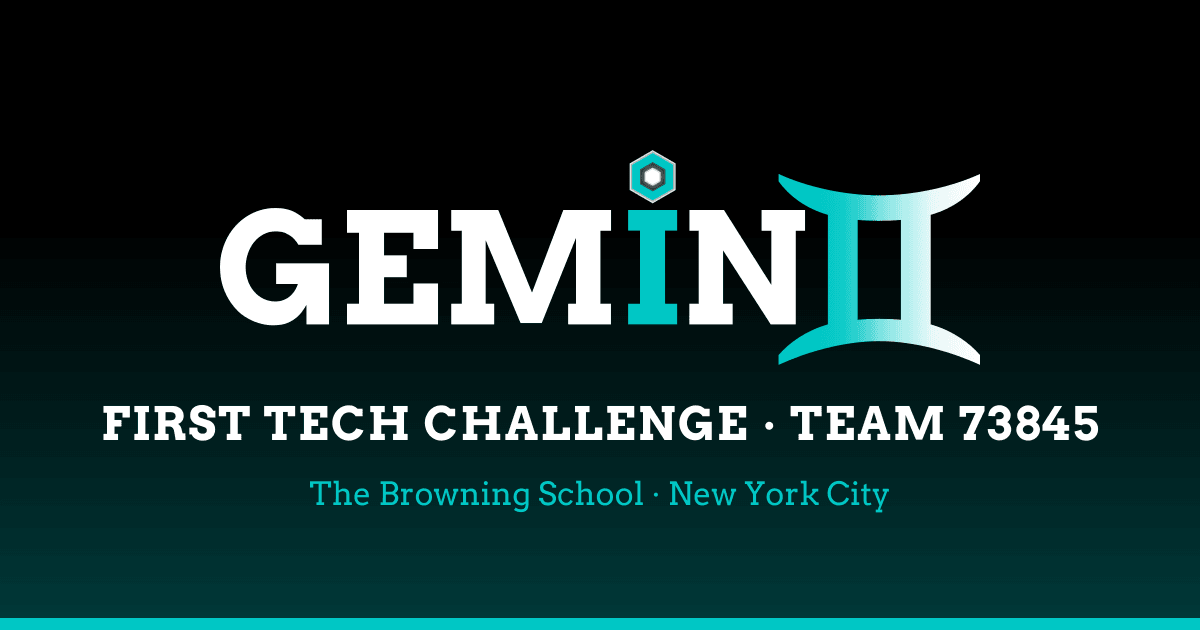
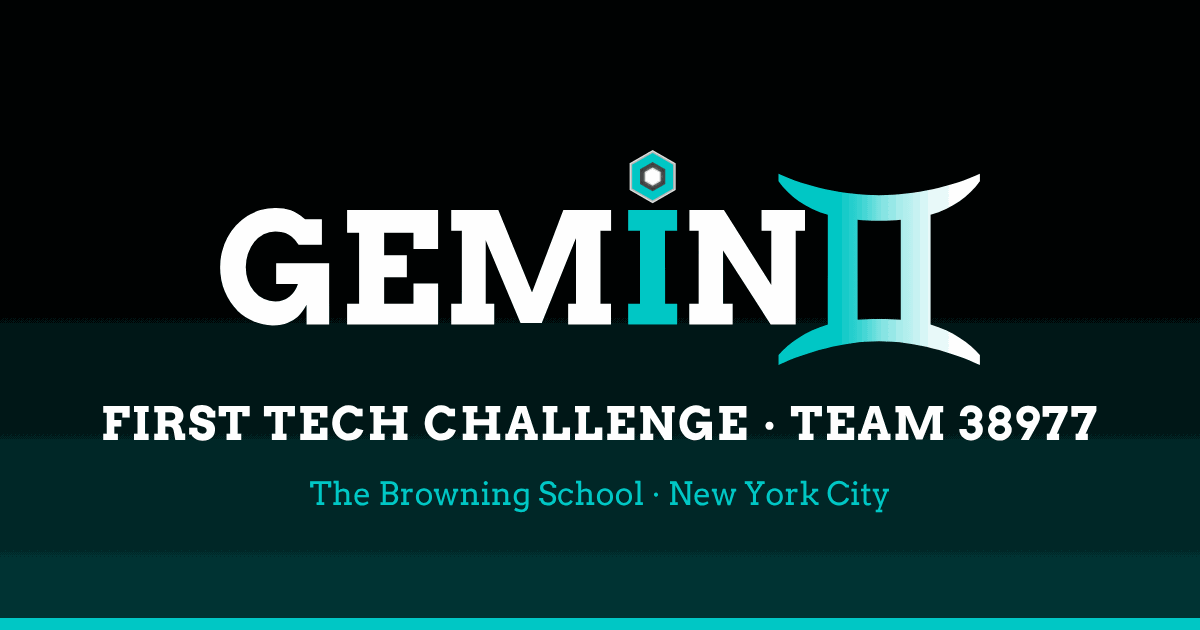
Update FTC team number to 38977
Replace 73845 with 38977 in titles, meta descriptions, JSON-LD, the web
manifest, the About FAQ and docs/SEO.md, and regenerate the 1200x630
share image (public/og-image.png) with the new number.

Claude-Session: https://claude.ai/code/session_01QQWTpKB76EYr6HHkmSA1GB

diff --git a/docs/SEO.md b/docs/SEO.md
@@ -50,7 +50,7 @@ No paid keyword tool (Ahrefs, Semrush) was available, so search volume and diffi
 
 "Geminii" is one letter away from **Gemini Robotics**, Google DeepMind's robotics AI. That model has a Wikipedia page, DeepMind product pages and wide press coverage, so a search for "geminii robotics" is likely to be autocorrected or answered with Google's product. A search for "Geminii Robotics" in October 2026 returned only DeepMind and the GitHub repo. The site itself was not indexed yet.
 
-Strategy: always pair the name with qualifiers Google can't confuse, such as **FTC**, **73845**, **Browning** and **NYC**. Answer the mix-up directly on the page; the About page FAQ now has "Is Geminii Robotics related to Google's Gemini Robotics?". Titles and descriptions already follow this pattern.
+Strategy: always pair the name with qualifiers Google can't confuse, such as **FTC**, **38977**, **Browning** and **NYC**. Answer the mix-up directly on the page; the About page FAQ now has "Is Geminii Robotics related to Google's Gemini Robotics?". Titles and descriptions already follow this pattern.
 
 ### Competitors (who takes the clicks we want)
 
@@ -61,20 +61,20 @@ Strategy: always pair the name with qualifiers Google can't confuse, such as **F
 | Ex Nihilo, FTC 30413 ([ultro.browning.edu/ex-nihilo](https://ultro.browning.edu/ex-nihilo/)) | Ultro's community team, also competing for "Browning robotics" searches. |
 | Browning news posts ([browning.edu/news](https://browning.edu/news/robotics-hosts-citywide-scrimmage)) | They rank for Browning robotics queries. |
 | Other NYC FTC teams (Stuy Fission/Fusion, Dalton's Atomic Theory, Brooklyn Tech, St. Edmund Prep Nerd Herd) | They compete for "NYC FTC team" queries. Most have weak or no team sites, so the generic local terms are winnable. |
-| Aggregators: [FTC Events](https://ftc-events.firstinspires.org), [FTCScout](https://ftcscout.org), [NYC FIRST](https://nycfirst.org/ftc) | They rank for every team number. Team 73845 isn't listed on FTC Events or FTCScout yet, which is a key gap. |
+| Aggregators: [FTC Events](https://ftc-events.firstinspires.org), [FTCScout](https://ftcscout.org), [NYC FIRST](https://nycfirst.org/ftc) | They rank for every team number. Team 38977 isn't listed on FTC Events or FTCScout yet, which is a key gap. |
 
 ### Main keywords
 
 | Keyword | Intent | Est. volume | Est. difficulty | Notes |
 | --- | --- | --- | --- | --- |
 | geminii robotics | Navigational | Very low (new team) | Hard because of the Gemini collision | Win it with exact spelling plus qualifiers |
-| ftc 73845 / ftc team 73845 | Navigational | Very low | Easy, once FTC Events/FTCScout list the team | Our page should sit next to the FIRST listings |
+| ftc 38977 / ftc team 38977 | Navigational | Very low | Easy, once FTC Events/FTCScout list the team | Our page should sit next to the FIRST listings |
 | browning school robotics | Navigational/informational | Low | Medium (Ultro holds #1) | Aim for #2, with a link from Ultro |
 | nyc ftc robotics team | Informational/local | Low–medium | Medium | Local pages from FIRST and schools rank |
 
 ### Long-tail variations
 
-- geminii ftc, geminii 73845, geminii robotics nyc, geminii browning
+- geminii ftc, geminii 38977, geminii robotics nyc, geminii browning
 - browning school ftc team, browning robotics team new york
 - ultro robotics affiliate team, ultro geminii
 - rookie ftc team nyc 2026, new ftc team manhattan
@@ -87,7 +87,7 @@ Strategy: always pair the name with qualifiers Google can't confuse, such as **F
 
 | Page | Primary keyword | Secondary keywords | Search intent |
 | --- | --- | --- | --- |
-| `/` | Geminii Robotics FTC 73845 | FTC team NYC, Browning School robotics team | Navigational: "who are they" |
+| `/` | Geminii Robotics FTC 38977 | FTC team NYC, Browning School robotics team | Navigational: "who are they" |
 | `/about/` | about Geminii Robotics | founded by twins, Ultro Robotics affiliate, why "Geminii", Gemini vs Geminii, FAQ queries | Informational |
 | `/outreach/` | Geminii Robotics outreach | robotics outreach NYC, Carter Burden Network robotics, Intro to Engineering mentoring | Informational |
 | `/giving/` | donate to Geminii Robotics | sponsor an FTC team NYC, support student robotics, Browning gift "For Robotics" | Transactional |
@@ -132,7 +132,7 @@ These also ship as `FAQPage` structured data. Google now shows FAQ rich results 
 
 | Check | Result |
 | --- | --- |
-| Title tags | ✅ Unique on every page, 35–50 characters, and every one includes the brand and "FTC 73845". |
+| Title tags | ✅ Unique on every page, 35–50 characters, and every one includes the brand and "FTC 38977". |
 | Meta descriptions | ✅ Unique on every page, 145–153 characters. |
 | H1 tags | ✅ Exactly one per page. The home page's H1 is visually hidden because the logo intro is the visual title. |
 | Heading order | ✅ No skipped levels (outreach cards now sit under an H2). |
@@ -161,18 +161,18 @@ No backlink tool was available. Sources found manually:
 
 | Site | How to get the link | Who |
 | --- | --- | --- |
-| **ultro.browning.edu** | Add Geminii to Ultro's About page or footer ("affiliate team: Geminii, FTC 73845"). Today it doesn't mention Geminii at all. **Most valuable link.** | Ultro web team |
+| **ultro.browning.edu** | Add Geminii to Ultro's About page or footer ("affiliate team: Geminii, FTC 38977"). Today it doesn't mention Geminii at all. **Most valuable link.** | Ultro web team |
 | **browning.edu** | Ask Communications to link the team from the athletics/clubs or STEM page, and from a news post about the new team. | Browning Communications |
-| **FTC Events / FIRST Dashboard** | Once team 73845 is registered, set the team's **website** field to `https://geminii.browning.edu` in the FIRST dashboard. FTCScout and other aggregators copy that listing. | Team coach or lead mentor |
+| **FTC Events / FIRST Dashboard** | Once team 38977 is registered, set the team's **website** field to `https://geminii.browning.edu` in the FIRST dashboard. FTCScout and other aggregators copy that listing. | Team coach or lead mentor |
 | **Instagram @geminii.robotics** | Put `https://geminii.browning.edu` in the bio. | Team |
-| **GitHub repo** | Set the repo's **About → Website** to `https://geminii.browning.edu`. The description still says it's Ultro's website; change it to "Website for Geminii Robotics, FTC Team 73845". | Repo owner |
+| **GitHub repo** | Set the repo's **About → Website** to `https://geminii.browning.edu`. The description still says it's Ultro's website; change it to "Website for Geminii Robotics, FTC Team 38977". | Repo owner |
 | **The Monthly Panther** (school paper) | Pitch a story on the new team founded by twins, with a link. | Team |
 | **Carter Burden Network** | Ask to be listed as a community or volunteer partner, with a link. | Team |
 | **NYC FIRST** (nycfirst.org) | Get listed in team spotlights and event recaps. | Team |
 
 ### Unlinked mentions
 
-As of this audit, the web has no mentions of "Geminii Robotics" or "73845" outside the GitHub repo. Every mention from now on should include a link. Once the site has data, check GSC's **Links** report, set a Google Alert for `"Geminii Robotics"`, and email any page that mentions the team without a link.
+As of this audit, the web has no mentions of "Geminii Robotics" or "38977" outside the GitHub repo. Every mention from now on should include a link. Once the site has data, check GSC's **Links** report, set a Google Alert for `"Geminii Robotics"`, and email any page that mentions the team without a link.
 
 ### New link opportunities
 
